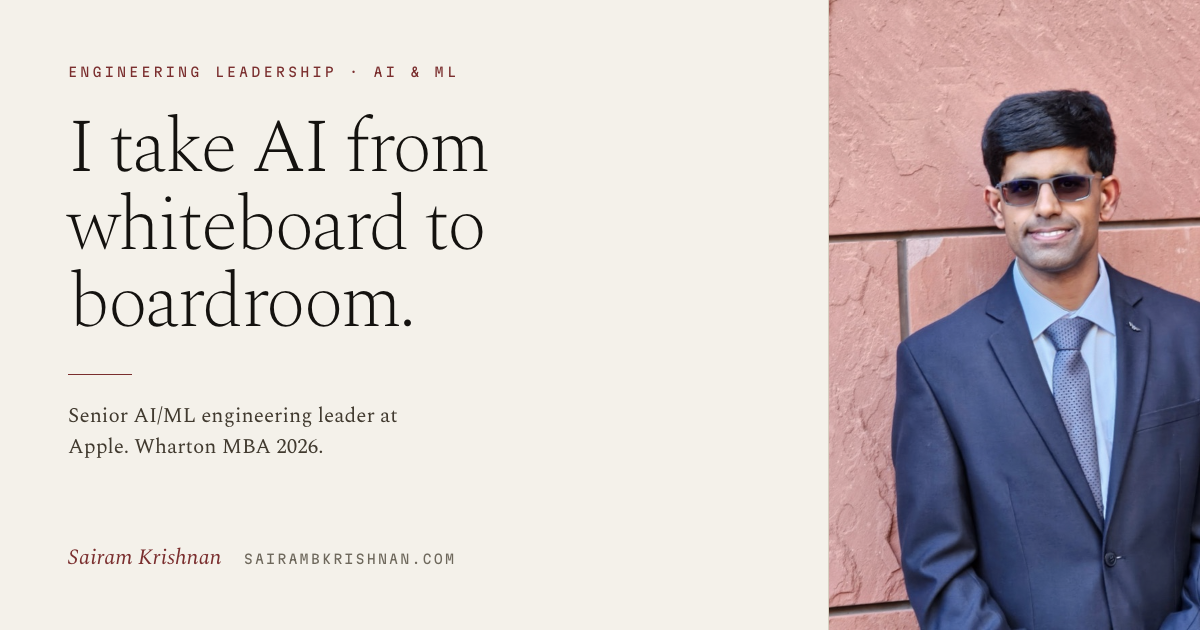
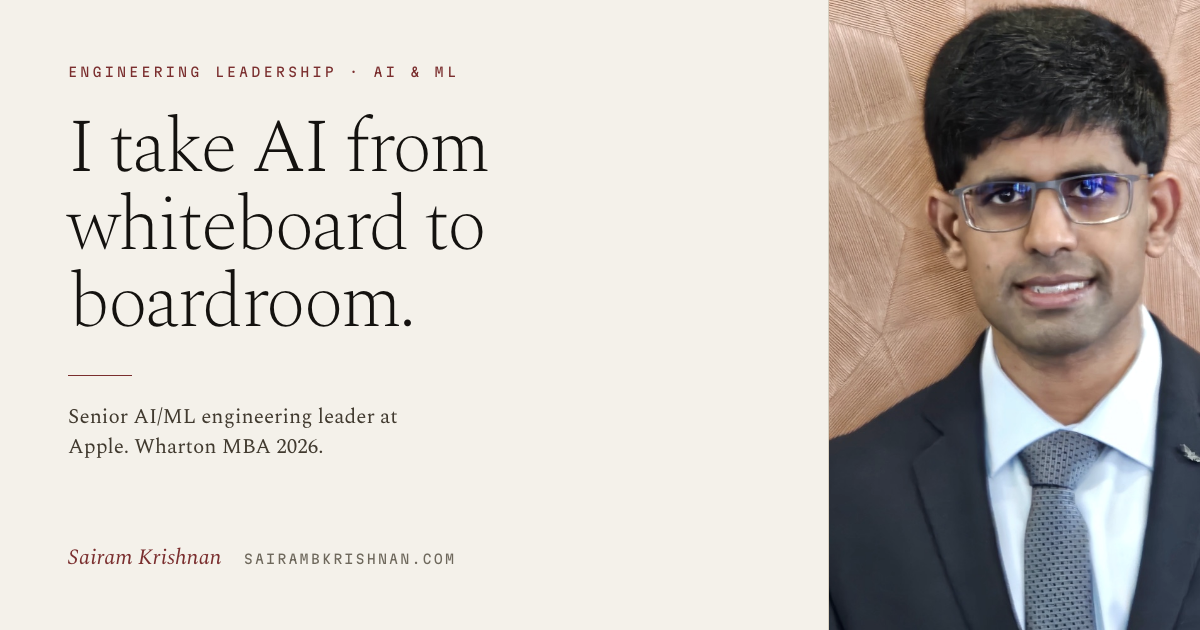
Replace portrait, strip explainer chrome, fix Carnegie Mellon dates
Swap the About page portrait for the 2026 headshot. New filename because
/assets is cached immutable for a year, so reusing the old name would
serve the old photo to returning visitors. Converted Display P3 to sRGB
and stripped camera EXIF.

Remove text that explained the site's own visuals: the charted-roles
paragraph and canvas legend, both research figure captions, and the
theme-toggle tooltip hint on all four pages.

Split the combined engineers/vendors stat into two full-size cells and
switch to active leadership verbs.

Correct Carnegie Mellon to 2010-2014 in the education block, the
timeline data, and the chart axis origin, which was hardcoded to 2013
and clipped the bar.

Regenerate og.png with the new portrait.

Add CLAUDE.md rules on self-annotation, stat density, verbs, and
receiving criticism.

Changed region(s): [[0.6783, 0.0, 1.0, 1.0], [0.0617, 0.6333, 0.3083, 0.6937], [0.0617, 0.573, 0.0925, 0.6032]]

diff --git a/public/index.html b/public/index.html
@@ -74,7 +74,7 @@
     .stats>div{padding:18px 16px!important;border-right:1px solid var(--rule)}
     .stats>div:nth-child(2n){border-right:0;padding-right:0!important}
     .stats>div:nth-child(2n+1){padding-left:0!important}
-    .stats>div:nth-child(-n+2){border-bottom:1px solid var(--rule2)}
+    .stats>div:nth-child(-n+4){border-bottom:1px solid var(--rule2)}
   }
   /* a 190px portrait stranded beside 160px of empty paper; give it the column */
   @media(max-width:560px){
@@ -84,7 +84,7 @@
   }
   a:focus-visible,button:focus-visible{outline:2px solid var(--accent);outline-offset:3px}
   .ftr a{padding:7px 0}
-  /* the portrait's brick wall is the brightest thing in the frame on dark paper */
+  /* the portrait's backdrop is the brightest thing in the frame on dark paper */
   .port img{filter:saturate(.82) contrast(1.02)}
   @media (prefers-color-scheme: dark){
     :root:not([data-theme="light"]) .port img{filter:saturate(.6) contrast(.94) brightness(.84)}
@@ -95,7 +95,7 @@
     *{animation-duration:.01ms!important;animation-iteration-count:1!important;transition-duration:.01ms!important}
   }
 </style>
-<script type="application/ld+json">{"@context":"https://schema.org","@type":"Person","name":"Sairam Krishnan","url":"https://sairambkrishnan.com/","image":"https://sairambkrishnan.com/assets/portrait.jpg","email":"mailto:sairambkrishnan@gmail.com","jobTitle":"Principal Software Engineer, AI/ML Platform Lead","description":"Senior AI/ML engineering leader at Apple. Eleven years building data and ML platforms, then the teams that ship them.","worksFor":{"@type":"Organization","name":"Apple"},"alumniOf":[{"@type":"CollegeOrUniversity","name":"The Wharton School, University of Pennsylvania"},{"@type":"CollegeOrUniversity","name":"Carnegie Mellon University"}],"award":["Benjamin Franklin Award, The Wharton School","Palmer Scholar, The Wharton School","Graduation With Honors, The Wharton School","National Merit Finalist"],"knowsAbout":["AI/ML platforms","Knowledge graphs","Distributed systems","Engineering leadership","Enterprise AI ROI","Stream processing"],"sameAs":["https://github.com/SaiWebApps","https://linkedin.com/in/sairambkrishnan","https://orcid.org/0009-0004-2626-1273"],"hasOccupation":{"@type":"Occupation","name":"Principal Software Engineer, AI/ML Platform Lead","occupationalCategory":"Engineering leadership"},"affiliation":[{"@type":"Organization","name":"Apple"},{"@type":"Organization","name":"Praxtera AI Institute"},{"@type":"Organization","name":"The Wharton School, University of Pennsylvania"},{"@type":"Organization","name":"Amazon"},{"@type":"Organization","name":"Susquehanna International Group"},{"@type":"Organization","name":"Microsoft"},{"@type":"Organization","name":"Amazon Web Services"},{"@type":"Organization","name":"LeanFM Technologies"},{"@type":"Organization","name":"Carnegie Mellon University"}]}</script>
+<script type="application/ld+json">{"@context":"https://schema.org","@type":"Person","name":"Sairam Krishnan","url":"https://sairambkrishnan.com/","image":"https://sairambkrishnan.com/assets/portrait-2026.jpg","email":"mailto:sairambkrishnan@gmail.com","jobTitle":"Principal Software Engineer, AI/ML Platform Lead","description":"Senior AI/ML engineering leader at Apple. Eleven years building data and ML platforms, then the teams that ship them.","worksFor":{"@type":"Organization","name":"Apple"},"alumniOf":[{"@type":"CollegeOrUniversity","name":"The Wharton School, University of Pennsylvania"},{"@type":"CollegeOrUniversity","name":"Carnegie Mellon University"}],"award":["Benjamin Franklin Award, The Wharton School","Palmer Scholar, The Wharton School","Graduation With Honors, The Wharton School","National Merit Finalist"],"knowsAbout":["AI/ML platforms","Knowledge graphs","Distributed systems","Engineering leadership","Enterprise AI ROI","Stream processing"],"sameAs":["https://github.com/SaiWebApps","https://linkedin.com/in/sairambkrishnan","https://orcid.org/0009-0004-2626-1273"],"hasOccupation":{"@type":"Occupation","name":"Principal Software Engineer, AI/ML Platform Lead","occupationalCategory":"Engineering leadership"},"affiliation":[{"@type":"Organization","name":"Apple"},{"@type":"Organization","name":"Praxtera AI Institute"},{"@type":"Organization","name":"The Wharton School, University of Pennsylvania"},{"@type":"Organization","name":"Amazon"},{"@type":"Organization","name":"Susquehanna International Group"},{"@type":"Organization","name":"Microsoft"},{"@type":"Organization","name":"Amazon Web Services"},{"@type":"Organization","name":"LeanFM Technologies"},{"@type":"Organization","name":"Carnegie Mellon University"}]}</script>
 <script type="application/ld+json">{"@context":"https://schema.org","@type":"WebSite","name":"Sairam Krishnan","url":"https://sairambkrishnan.com/","author":{"@type":"Person","name":"Sairam Krishnan"}}</script>
 <script src="/support.js"></script>
 <script>
@@ -131,7 +131,7 @@
     <p style="font-size:clamp(16px,1.5vw,19px);line-height:1.5;color:var(--ink2);margin:0">Senior AI/ML engineering leader at Apple. Wharton MBA 2026. Eleven years building the platforms, then the teams that ship them.</p>
     </div>
       <figure class="port" style="margin:0;flex:0 1 clamp(190px,21vw,272px);min-width:0">
-        <img src="/assets/portrait.jpg" alt="Sairam Krishnan" style="display:block;width:100%;aspect-ratio:4/5;object-fit:cover;object-position:50% 26%;border:1px solid var(--rule)" />
+        <img src="/assets/portrait-2026.jpg" alt="Sairam Krishnan" style="display:block;width:100%;aspect-ratio:4/5;object-fit:cover;object-position:50% 50%;border:1px solid var(--rule)" />
       </figure>
     </div>
 
@@ -146,7 +146,11 @@
       </div>
       <div style="padding:22px;border-right:1px solid var(--rule)">
         <div style="font-family:'Spectral',Georgia,serif;font-weight:200;font-size:clamp(34px,4.2vw,52px);line-height:1;letter-spacing:-0.03em;font-variant-numeric:tabular-nums">8</div>
-        <div style="font-family:'Martian Mono',monospace;font-size:9px;letter-spacing:0.16em;text-transform:uppercase;color:var(--ink3);margin-top:10px;line-height:1.5">Engineers led &amp; 10 vendors<br>Three continents</div>
+        <div style="font-family:'Martian Mono',monospace;font-size:9px;letter-spacing:0.16em;text-transform:uppercase;color:var(--ink3);margin-top:10px;line-height:1.5">Engineers directed<br>Three continents</div>
+      </div>
+      <div style="padding:22px;border-right:1px solid var(--rule)">
+        <div style="font-family:'Spectral',Georgia,serif;font-weight:200;font-size:clamp(34px,4.2vw,52px);line-height:1;letter-spacing:-0.03em;font-variant-numeric:tabular-nums">10</div>
+        <div style="font-family:'Martian Mono',monospace;font-size:9px;letter-spacing:0.16em;text-transform:uppercase;color:var(--ink3);margin-top:10px;line-height:1.5">Vendors managed</div>
       </div>
       <div style="padding:22px 0 22px 22px">
         <div style="font-family:'Spectral',Georgia,serif;font-weight:200;font-size:clamp(34px,4.2vw,52px);line-height:1;letter-spacing:-0.03em;font-variant-numeric:tabular-nums">11</div>
@@ -190,8 +194,7 @@
         <span style="height:1px;width:36px;background:var(--accent)"></span>
         <span style="font-family:'Martian Mono',monospace;font-size:9.5px;letter-spacing:0.22em;text-transform:uppercase;color:var(--ink3)">Plate I · Charted roles</span>
       </div>
-      <h2 style="font-family:'Spectral',Georgia,serif;font-weight:200;font-size:clamp(30px,4vw,52px);line-height:1.08;letter-spacing:-0.03em;margin:0 0 14px;max-width:22ch">Engineer to engineering leader.</h2>
-      <p style="font-size:16px;line-height:1.6;color:var(--ink2);margin:0 0 clamp(22px,3vw,34px)">Every role on one axis. Bar weight is scope, and rows that overlap were held at the same time — school and first jobs at one end, Apple with Wharton and Praxtera at the other. Scroll the plate, or click a row.</p>
+      <h2 style="font-family:'Spectral',Georgia,serif;font-weight:200;font-size:clamp(30px,4vw,52px);line-height:1.08;letter-spacing:-0.03em;margin:0 0 clamp(22px,3vw,34px);max-width:22ch">Engineer to engineering leader.</h2>
 
       <div ref="{{ trackRef }}" style="position:relative;height:230vh;min-height:1560px">
         <div style="position:sticky;top:80px;height:calc(100vh - 104px);max-height:780px;display:grid;grid-template-columns:1fr;grid-template-rows:minmax(0,1fr) auto;gap:clamp(14px,1.8vw,22px)">
@@ -231,7 +234,7 @@
         <div>
           <div style="display:flex;justify-content:space-between;align-items:baseline;gap:14px;flex-wrap:wrap;padding-bottom:10px;border-bottom:1px solid var(--ink)">
             <span style="font-family:'Spectral',Georgia,serif;font-size:26px;font-weight:400;letter-spacing:-0.02em">Carnegie Mellon</span>
-            <span style="font-family:'Martian Mono',monospace;font-size:10px;color:var(--ink3);font-variant-numeric:tabular-nums">2013–2014</span>
+            <span style="font-family:'Martian Mono',monospace;font-size:10px;color:var(--ink3);font-variant-numeric:tabular-nums">2010–2014</span>
           </div>
           <div style="display:flex;align-items:baseline;gap:12px;padding:12px 0;border-bottom:1px solid var(--rule2)">
             <span style="font-size:15px">M.S., Electrical &amp; Computer Engineering</span>
@@ -522,7 +525,7 @@ class Component extends DCLogic {
     this.sel = 6;
     this.hover = -1;
     this.ROLES = [
-      {n:'Carnegie Mellon University', s:2013, e:2015, g:1.5, k:'school', d:'2013–2014', m:'Dual-degree ECE · Head TA · NSF researcher', b:[
+      {n:'Carnegie Mellon University', s:2010, e:2015, g:1.5, k:'school', d:'2010–2014', m:'Dual-degree ECE · Head TA · NSF researcher', b:[
         'Dual degrees in Electrical & Computer Engineering with a business minor, and my first real taste of building platforms and leading people.',
         'Head TA and course developer for Web Applications Development, guiding 105+ students, and Agile Product Owner for the semester-long capstone.',
         'NSF-funded cyberphysical-systems research, turning 10M+ raw sensor data points into research-ready datasets.'
@@ -584,7 +587,7 @@ class Component extends DCLogic {
       nextOff: this.state.ry === this.REVIEWS.length - 1 ? 'true' : 'false',
       prevReview: () => this.goReview(this.state.ry - 1),
       nextReview: () => this.goReview(this.state.ry + 1),
-      themeTitle: 'Theme: auto — click to cycle (auto follows your system setting)',
+      themeTitle: 'Theme: auto',
       cycleTheme: () => {
         const order = ['auto','light','dark'];
         const next = order[(order.indexOf(this.mode) + 1) % 3];
@@ -644,7 +647,7 @@ class Component extends DCLogic {
     if (a) r.style.setProperty('--accent', a);
     const b = this.btnRef.current;
     if (b){
-      b.setAttribute('title', 'Theme: ' + m + ' — click to cycle (auto follows your system setting)');
+      b.setAttribute('title', 'Theme: ' + m);
       b.style.boxShadow = '0 0 0 3px ' + this.hexA(this.palette().accent, 0.22);
       if (this._flashT) clearTimeout(this._flashT);
       this._flashT = setTimeout(() => { b.style.boxShadow = ''; }, 340);
@@ -887,12 +890,10 @@ class Component extends DCLogic {
   }
   mono(ctx, size, weight){ ctx.font = (weight||'400') + ' ' + size + "px 'Martian Mono', ui-monospace, monospace"; }
 
-  // Plate I: every role as a span on one time axis. Bar weight is scope;
-  // rows that share a column are roles held at the same time.
   roles(p, t, P){
     const ctx = p.ctx, w = p.w, h = p.h;
     const R = this.ROLES;
-    const D0 = 2013, D1 = 2027;
+    const D0 = 2010, D1 = 2027;
     const still = this.props.motion === 'still' || this.reduceMotion;
 
     // Wide layout keeps names in a left gutter; narrow layout stacks the name over its bar.
@@ -998,12 +999,6 @@ class Component extends DCLogic {
 
       hits.push({ i: i, x0: Math.min(x0, wide ? padL - 140 : x0) , x1: x1 + (wide ? 90 : 0), y0: padT + rowH * i, y1: padT + rowH * (i + 1) });
     });
-
-    // legend
-    this.mono(ctx, Math.min(8, Math.max(6.8, w * 0.0095)), '300');
-    ctx.fillStyle = this.hexA(P.ink3, 0.85); ctx.textAlign = 'left';
-    ctx.fillText(wide ? 'BAR WEIGHT = SCOPE · OUTLINE = SCHOOL · ROWS THAT OVERLAP WERE HELD AT ONCE'
-                      : 'WEIGHT = SCOPE · OUTLINE = SCHOOL', wide ? padL - 138 : 2, 14);
 
     this._starHits = hits;
   }

diff --git a/public/research.html b/public/research.html
@@ -145,7 +145,6 @@
         </div>
         <div>
           <div ref="{{ thesisRef }}" style="position:relative;height:clamp(300px,32vw,380px);border:1px solid var(--rule);background:var(--paper2)"></div>
-          <p style="font-family:'Martian Mono',monospace;font-size:8.5px;letter-spacing:0.14em;text-transform:uppercase;color:var(--ink3);line-height:1.7;margin:12px 0 0">Fig. 1 — the cost of breadth falls toward zero while the value of judgment rises. Where they cross is where management has to change.</p>
         </div>
       </div>
       <div style="margin-top:clamp(26px,3vw,36px);padding-top:18px;border-top:1px solid var(--rule);font-family:'Martian Mono',monospace;font-size:9px;letter-spacing:0.14em;text-transform:uppercase;color:var(--ink3)">Co-authored with Gajendra Babu Thokala, Senior Engineering Leader at Apple</div>
@@ -188,7 +187,6 @@
         </div>
         <div>
           <div ref="{{ stackRef }}" style="position:relative;height:clamp(320px,34vw,420px);border:1px solid var(--rule);background:var(--paper)"></div>
-          <p style="font-family:'Martian Mono',monospace;font-size:8.5px;letter-spacing:0.14em;text-transform:uppercase;color:var(--ink3);line-height:1.7;margin:12px 0 0">Fig. 2 — the four layers, exploded. Eight case studies rise to the layer each one tested.</p>
         </div>
       </div>
       <div style="margin-top:clamp(26px,3vw,36px);padding-top:18px;border-top:1px solid var(--rule);font-family:'Martian Mono',monospace;font-size:9px;letter-spacing:0.14em;text-transform:uppercase;color:var(--ink3)">DOI 10.2139/ssrn.6732598 · Co-authors A. Hepp and S. Gandhi · Faculty sponsor Prof. Gad Allon, The Wharton School</div>
@@ -338,7 +336,7 @@ class Component extends DCLogic {
     if (m === 'auto') r.removeAttribute('data-theme'); else r.setAttribute('data-theme', m);
     const b = this.btnRef.current;
     if (b){
-      b.setAttribute('title', 'Theme: ' + m + ' — click to cycle (auto follows your system setting)');
+      b.setAttribute('title', 'Theme: ' + m);
       b.style.boxShadow = '0 0 0 3px ' + this.hexA(this.palette().accent, 0.22);
       if (this._flashT) clearTimeout(this._flashT);
       this._flashT = setTimeout(() => { b.style.boxShadow = ''; }, 340);
@@ -565,7 +563,6 @@ class Component extends DCLogic {
       ctx.fillStyle = this.hexA(P.ink, 0.25+0.6*e); ctx.fill();
     }
     ctx.textAlign = 'left'; this.mono(ctx, 8, '300'); ctx.fillStyle = this.hexA(P.ink3, 0.9);
-    ctx.fillText('8 CASE STUDIES · EACH RISING TO THE LAYER IT TESTED', 10, h-10);
   }
 }
 </script>

diff --git a/public/projects.html b/public/projects.html
@@ -743,7 +743,7 @@ class Component extends DCLogic {
     if (m === 'auto') r.removeAttribute('data-theme'); else r.setAttribute('data-theme', m);
     const b = this.btnRef.current;
     if (b){
-      b.setAttribute('title', 'Theme: ' + m + ' — click to cycle (auto follows your system setting)');
+      b.setAttribute('title', 'Theme: ' + m);
       b.style.boxShadow = '0 0 0 3px color-mix(in srgb, var(--accent) 22%, transparent)';
       if (this._flashT) clearTimeout(this._flashT);
       this._flashT = setTimeout(() => { b.style.boxShadow = ''; }, 340);

diff --git a/public/ventures.html b/public/ventures.html
@@ -348,7 +348,7 @@ class Component extends DCLogic {
     if (m === 'auto') r.removeAttribute('data-theme'); else r.setAttribute('data-theme', m);
     const b = this.btnRef.current;
     if (b){
-      b.setAttribute('title', 'Theme: ' + m + ' — click to cycle (auto follows your system setting)');
+      b.setAttribute('title', 'Theme: ' + m);
       b.style.boxShadow = '0 0 0 3px ' + this.hexA(this.palette().accent, 0.22);
       if (this._flashT) clearTimeout(this._flashT);
       this._flashT = setTimeout(() => { b.style.boxShadow = ''; }, 340);

diff --git a/og-card.source.html b/og-card.source.html
@@ -38,6 +38,6 @@
       <span>sairambkrishnan.com</span>
     </div>
   </div>
-  <figure><img src="assets/portrait.jpg" alt=""></figure>
+  <figure><img src="assets/portrait-2026.jpg" alt=""></figure>
 </body>
 </html>

diff --git a/CLAUDE.md b/CLAUDE.md
@@ -2,12 +2,20 @@
 
 ## Content
 - **Never invent facts.** Every name, date, place, number, credential, or claim must come from a source the user gave (an attached file, a page they linked, their own words). If it isn't sourced, leave it out. No guessed dates, no assumed locations, no rounded-off numbers.
+- **Never annotate your own work. Ship the thing, not an explanation of the thing.** Do not add legends, keys, captions, footnotes, hints, or any text that tells the reader how to read a visual or how to operate the page — "bar weight = scope", "rows that overlap were held at once", "outline = school", "click a row", "scroll to see more", "each dot is a project". If a visual needs a decoder to be understood, the visual is wrong; fix the visual. This ban covers every surface equally: visible copy, canvas/SVG text, chart labels beyond a plain axis name, tooltips, alt text, and code comments that restate the encoding. It also covers process residue — any note about how the content was made, what was assumed, what was cut, or what the reader should notice. The deliverable never narrates itself.
 - **No filler, no cliché, no throwaway lines.** Do not add generic marketing copy ("the fastest route is always email", "let's build something great together", "always happy to chat"), invented captions, taglines, decorative counts ("four review cycles"), or any sentence that exists only to fill space. If a line does not carry real, sourced information, delete it.
 - **The test for every element:** does this help him look like a leader? If it doesn't, it doesn't ship.
+- **Lead with active leadership verbs.** Describe what he ran, directed, built, drove, or owned — never a passive or bystander construction ("engineers led", "was responsible for", "involved in"). Change the verb, never the number: pick stronger wording only when it means the same thing as the source.
 - Prefer verbatim source language (recommendations, award citations, manager comments) over paraphrase.
 - Never mention compensation, salary, or pay figures anywhere.
 - Never include negative feedback, development areas, or weaknesses from performance reviews.
 - Do not name individual managers or reviewers unless the user asks for the name.
+
+## Numbers that carry weight
+- **One number per box.** Never bundle two separate metrics into a single stat cell ("8 engineers & 10 vendors"). Every figure worth showing gets its own cell at full display size. If two numbers share a box, split the box.
+
+## Receiving criticism
+- **Take it head-on.** When the user says the work is wrong, bad, or sloppy, the first line names the specific failure and what is being fixed. Never open with a phrase that steps around their reaction — "setting that aside", "regardless", "in any case", "to be fair". Do not manage their tone, do not defend the earlier choice, do not pad with apology. Acknowledge, fix, report.
 
 ## Fixes
 - When the user points out a problem, search the **whole project** for every instance of that problem and fix them all. Never a one-off fix.
